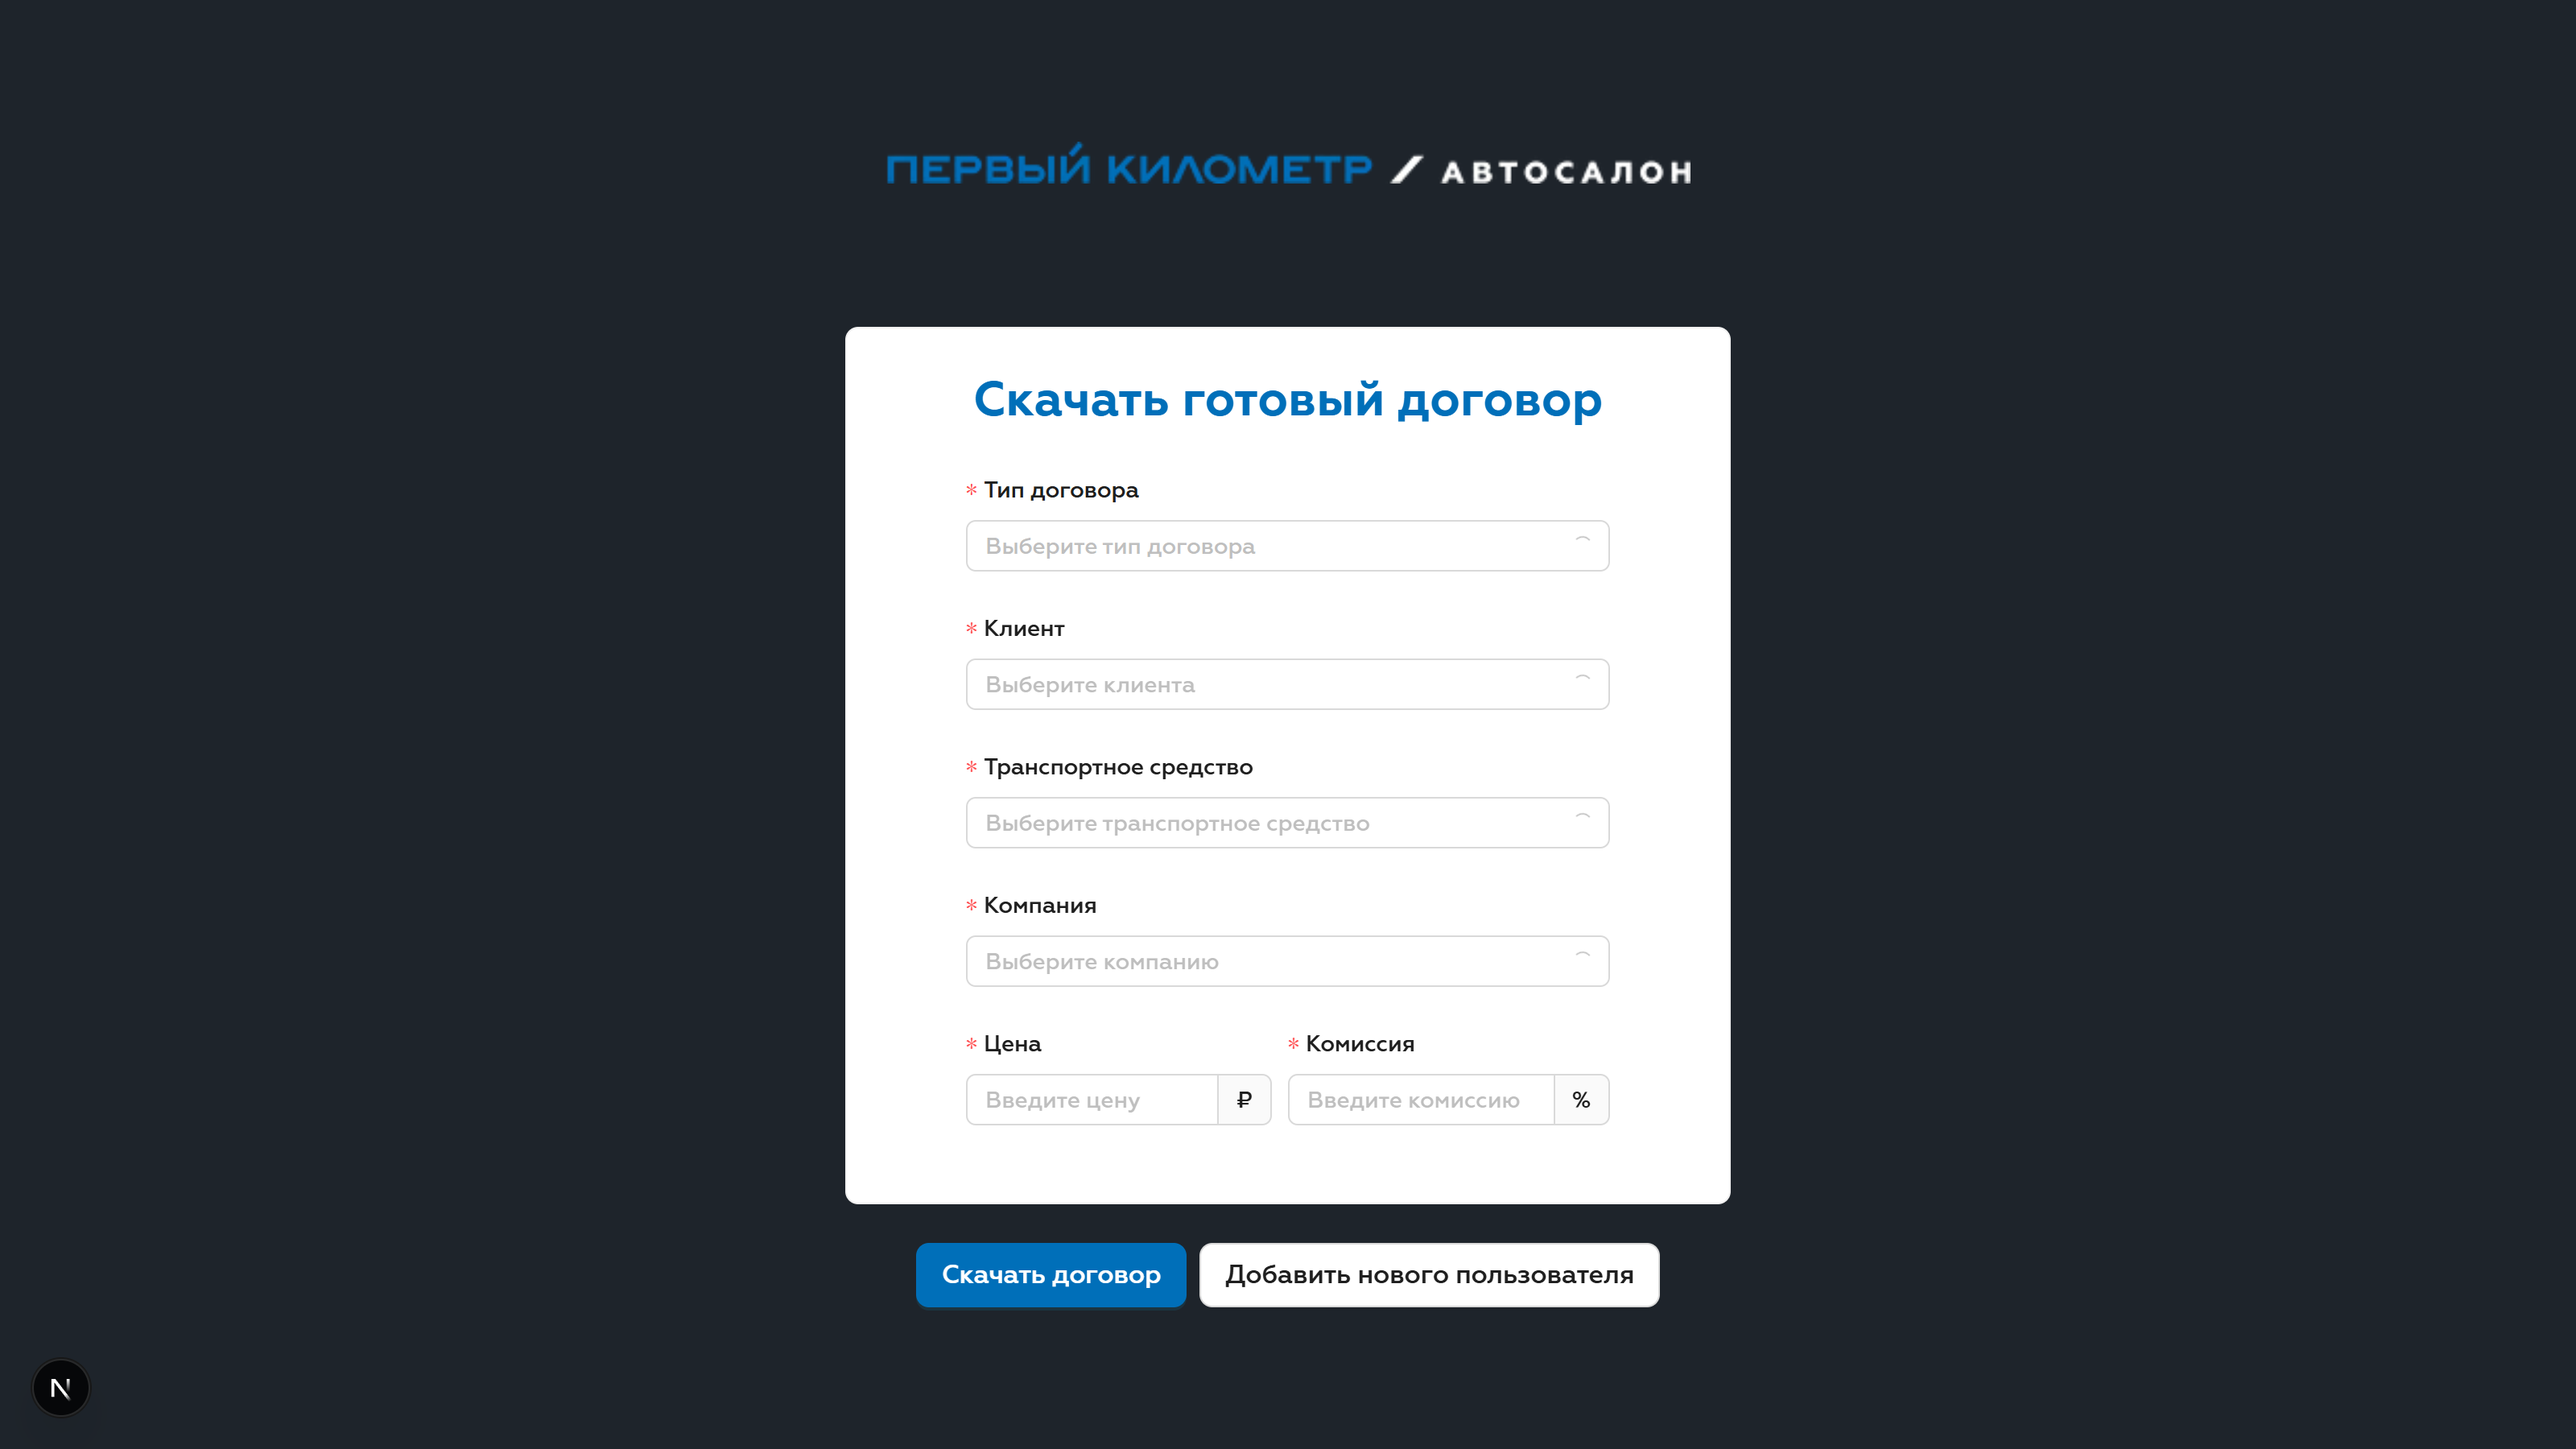
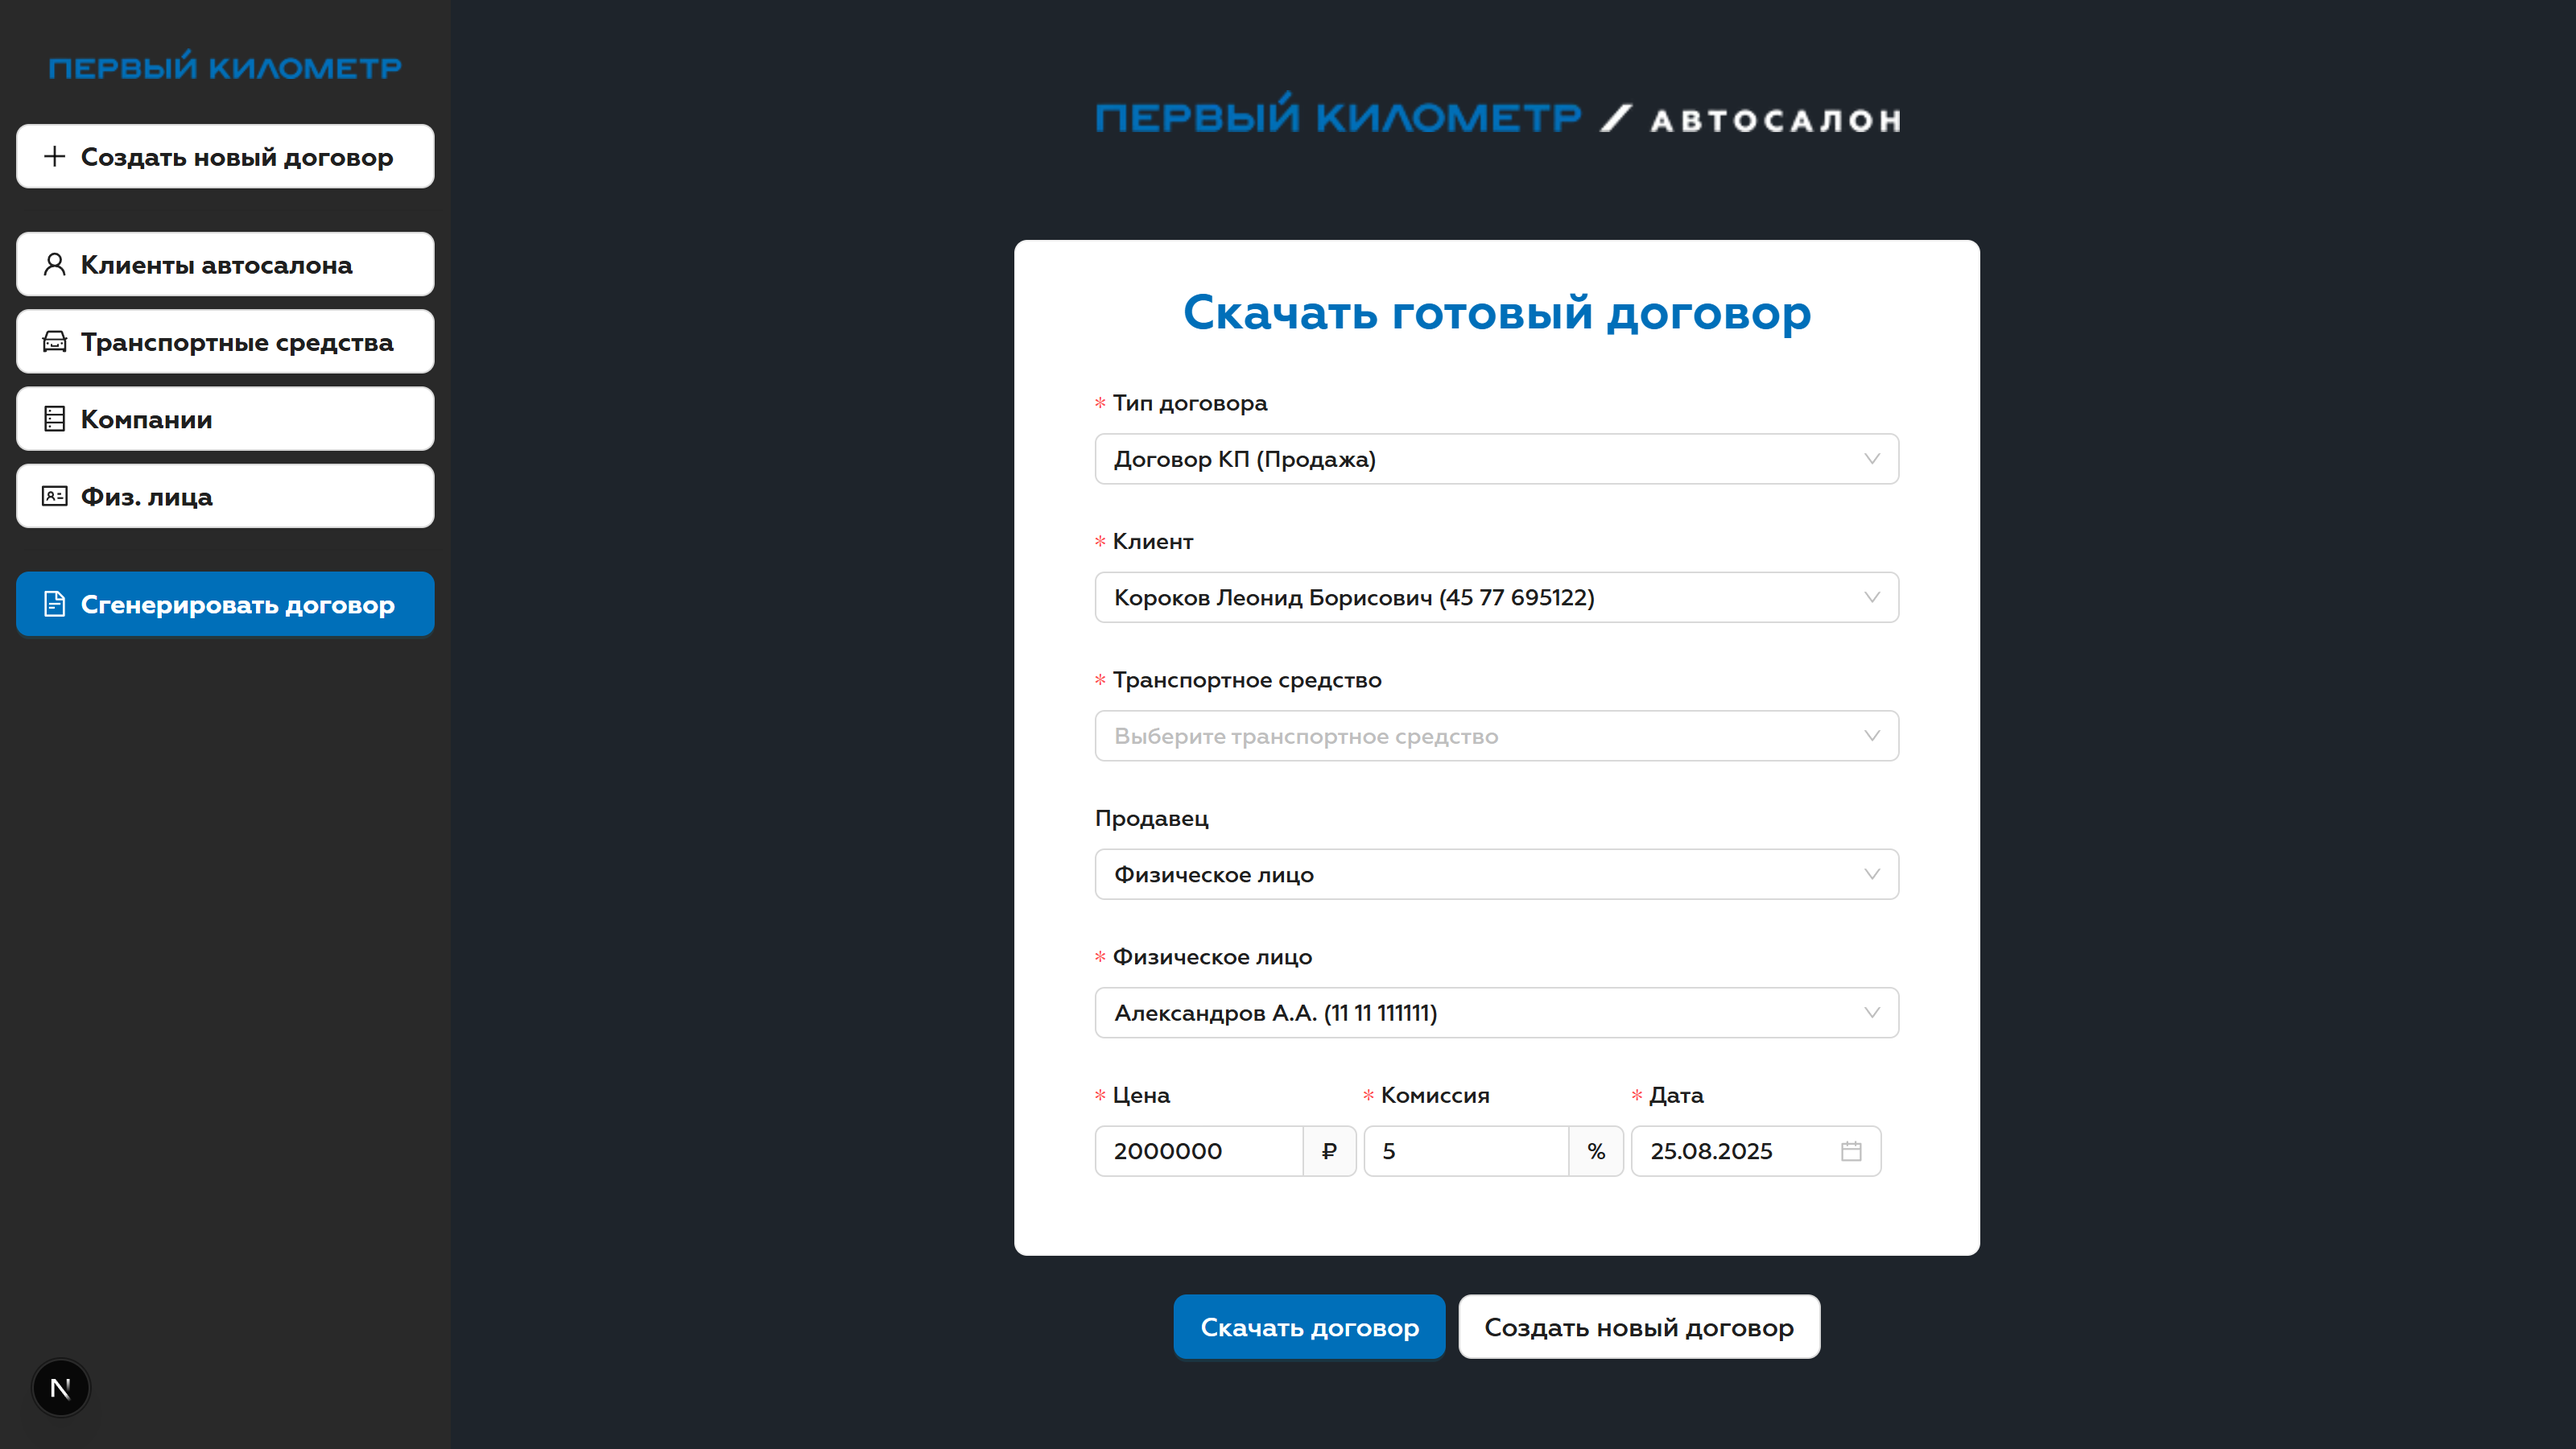
Fix bugs

Changed region(s): [[0.3125, 0.1556, 0.7812, 0.9644], [0.0, 0.0311, 0.1875, 0.4667], [0.3438, 0.0622, 0.75, 0.1244]]

diff --git a/src/app/upload/page.tsx b/src/app/upload/page.tsx
@@ -115,86 +115,84 @@ export default function UploadPage() {
   }, [selectedUser, user, selectedVehicle, vehicle, searchParams, validated, router]);
 
   return (
-    <Space direction="vertical" align="center" size="large">
-      <Space size="large">
-        <Card className="w-100">
-          <Flex justify="center">
-            <Title level={2}>Клиент</Title>
-          </Flex>
-          <Spin spinning={loadingUser}>
-            <Space direction="vertical" align="center" className="w-full">
-              <Text>Добавьте нового клиента</Text>
-              <Space className="w-full">
-                <UploadDocument
-                  onUpload={setPassportMainPage}
-                  text="Загрузите паспорт (главная страница)"
-                />
-                <UploadDocument
-                  onUpload={setPassportRegistration}
-                  text="Загрузите паспорт (прописка)"
-                />
-              </Space>
-              <Text>или</Text>
-              <Select
-                className="w-80"
-                placeholder="Выберите существующего клиента"
-                disabled={!!passportMainPage || !!passportRegistration || !!failedGetExistsUsers}
-                loading={loadingExistsUsers}
-                options={existsUsers ?? []}
-                onChange={setSelectedUser}
-                showSearch
-                filterOption={(input, option) =>
-                  (option?.label ?? '').toLowerCase().includes(input.toLowerCase())
-                }
-                allowClear
+    <Space direction="vertical" align="center" size="large" className="flex w-full">
+      <Card className="w-100">
+        <Flex justify="center">
+          <Title level={2}>Клиент</Title>
+        </Flex>
+        <Spin spinning={loadingUser}>
+          <Space direction="vertical" align="center">
+            <Text>Добавьте нового клиента</Text>
+            <Space className="w-full">
+              <UploadDocument
+                onUpload={setPassportMainPage}
+                text="Загрузите паспорт (главная страница)"
+              />
+              <UploadDocument
+                onUpload={setPassportRegistration}
+                text="Загрузите паспорт (прописка)"
               />
             </Space>
-          </Spin>
-        </Card>
-        <Card className="w-142">
-          <Flex justify="center">
-            <Title level={2}>Автомобиль</Title>
-          </Flex>
-          <Spin spinning={loadingVehicle}>
-            <Space direction="vertical" align="center" className="w-full">
-              <Text>Добавьте новый автомобиль</Text>
-              <Space className="w-full">
-                <UploadDocument
-                  onUpload={setVehiclePassport}
-                  text="Загрузите паспорт транспортного средства (ПТС)"
-                />
-                <UploadDocument
-                  onUpload={setVehicleRegistrationFront}
-                  text="Загрузите лицевую сторону свидетельства о регистрации (СТС)"
-                />
-                <UploadDocument
-                  onUpload={setVehicleRegistrationBack}
-                  text="Загрузите обратную сторону свидетельства о регистрации (СТС)"
-                />
-              </Space>
-              <Text>или</Text>
-              <Select
-                className="w-80"
-                placeholder="Выберите существующий автомобиль"
-                disabled={
-                  !!vehiclePassport ||
-                  !!vehicleRegistrationFront ||
-                  !!vehicleRegistrationBack ||
-                  !!failedGetExistsVehicles
-                }
-                loading={loadingExistsVehicles}
-                options={existsVehicles ?? []}
-                onChange={setSelectedVehicle}
-                showSearch
-                filterOption={(input, option) =>
-                  (option?.label ?? '').toLowerCase().includes(input.toLowerCase())
-                }
-                allowClear
+            <Text>или</Text>
+            <Select
+              className="w-80"
+              placeholder="Выберите существующего клиента"
+              disabled={!!passportMainPage || !!passportRegistration || !!failedGetExistsUsers}
+              loading={loadingExistsUsers}
+              options={existsUsers ?? []}
+              onChange={setSelectedUser}
+              showSearch
+              filterOption={(input, option) =>
+                (option?.label ?? '').toLowerCase().includes(input.toLowerCase())
+              }
+              allowClear
+            />
+          </Space>
+        </Spin>
+      </Card>
+      <Card className="w-142">
+        <Flex justify="center">
+          <Title level={2}>Автомобиль</Title>
+        </Flex>
+        <Spin spinning={loadingVehicle}>
+          <Space direction="vertical" align="center" className="w-full">
+            <Text>Добавьте новый автомобиль</Text>
+            <Space className="w-full">
+              <UploadDocument
+                onUpload={setVehiclePassport}
+                text="Загрузите паспорт транспортного средства (ПТС)"
+              />
+              <UploadDocument
+                onUpload={setVehicleRegistrationFront}
+                text="Загрузите лицевую сторону свидетельства о регистрации (СТС)"
+              />
+              <UploadDocument
+                onUpload={setVehicleRegistrationBack}
+                text="Загрузите обратную сторону свидетельства о регистрации (СТС)"
               />
             </Space>
-          </Spin>
-        </Card>
-      </Space>
+            <Text>или</Text>
+            <Select
+              className="w-80"
+              placeholder="Выберите существующий автомобиль"
+              disabled={
+                !!vehiclePassport ||
+                !!vehicleRegistrationFront ||
+                !!vehicleRegistrationBack ||
+                !!failedGetExistsVehicles
+              }
+              loading={loadingExistsVehicles}
+              options={existsVehicles ?? []}
+              onChange={setSelectedVehicle}
+              showSearch
+              filterOption={(input, option) =>
+                (option?.label ?? '').toLowerCase().includes(input.toLowerCase())
+              }
+              allowClear
+            />
+          </Space>
+        </Spin>
+      </Card>
       <Button type="primary" size="large" onClick={() => void submit()}>
         Проверить данные
       </Button>

diff --git a/src/app/layout.tsx b/src/app/layout.tsx
@@ -66,9 +66,11 @@ export default function RootLayout({
         <AntdRegistry>
           <App>
             <ConfigProvider {...config}>
-              <div className="flex h-full w-full">
+              <div className="flex h-full! w-full">
                 <Menu />
-                <div className="w-full bg-[var(--color-bg3)]">{children}</div>
+                <div className="h-full w-[calc(100%-280px)]! overflow-auto bg-[var(--color-bg3)] py-8">
+                  {children}
+                </div>
               </div>
             </ConfigProvider>
           </App>

diff --git a/src/app/download/layout.tsx b/src/app/download/layout.tsx
@@ -7,7 +7,7 @@ export default function DownloadLayout({
   children: React.ReactNode;
 }>) {
   return (
-    <Flex vertical align="center" justify="space-evenly" className="h-full w-full">
+    <Flex vertical align="center" justify="space-evenly" className="h-full w-full" gap={12}>
       <Image
         src="/logo/logo.webp"
         width={386}

diff --git a/src/app/upload/layout.tsx b/src/app/upload/layout.tsx
@@ -7,7 +7,7 @@ export default function UploadLayout({
   children: React.ReactNode;
 }>) {
   return (
-    <Flex vertical align="center" justify="space-evenly" className="h-full w-full">
+    <Flex vertical align="center" justify="space-evenly" className="h-full w-full" gap={24}>
       <Image
         src="/logo/logo.webp"
         width={386}

diff --git a/src/features/menu/index.tsx b/src/features/menu/index.tsx
@@ -53,7 +53,7 @@ export const Menu = () => {
   const router = useRouter();
 
   return (
-    <Sider width={280} className="h-full! bg-[var(--color-bg2)]!">
+    <Sider width={280} className="min-h-full! bg-[var(--color-bg2)]!">
       <Space direction="vertical" className="p-2">
         <img
           src="/logo/short_logo.webp"

diff --git a/src/app/tables/companies/page.tsx b/src/app/tables/companies/page.tsx
@@ -1,6 +1,6 @@
 'use client';
 
-import type { Company} from '@/entities/company';
+import type { Company } from '@/entities/company';
 import CompanyService, { companySchema } from '@/entities/company';
 import { VerifyCompany } from '@/features/verify/company';
 import { useEntities } from '@/shared/utils/hooks/data';

diff --git a/src/features/verify/company.tsx b/src/features/verify/company.tsx
@@ -1,4 +1,4 @@
-import type { Company} from '@/entities/company';
+import type { Company } from '@/entities/company';
 import { companySchema } from '@/entities/company';
 import { Title } from '@/shared/ui/title';
 import { getValidationRules } from '@/shared/utils/schemes/validator';

diff --git a/src/entities/company/service.ts b/src/entities/company/service.ts
@@ -1,5 +1,5 @@
 import { CRUDCService } from '@/shared/utils/services';
-import type { Company} from './schema';
+import type { Company } from './schema';
 import { companySchema } from './schema';
 
 export class ICompanyService extends CRUDCService<Company> {}

diff --git a/README.md b/README.md
@@ -15,5 +15,8 @@
 
 ## Скриншоты:
 
-![](./screenshots/upload_docs.png)
+![](./screenshots/create_doc.png)
+![](./screenshots/upload.png)
 ![](./screenshots/download_docs.png)
+![](./screenshots/user.png)
+![](./screenshots/companies.png)
